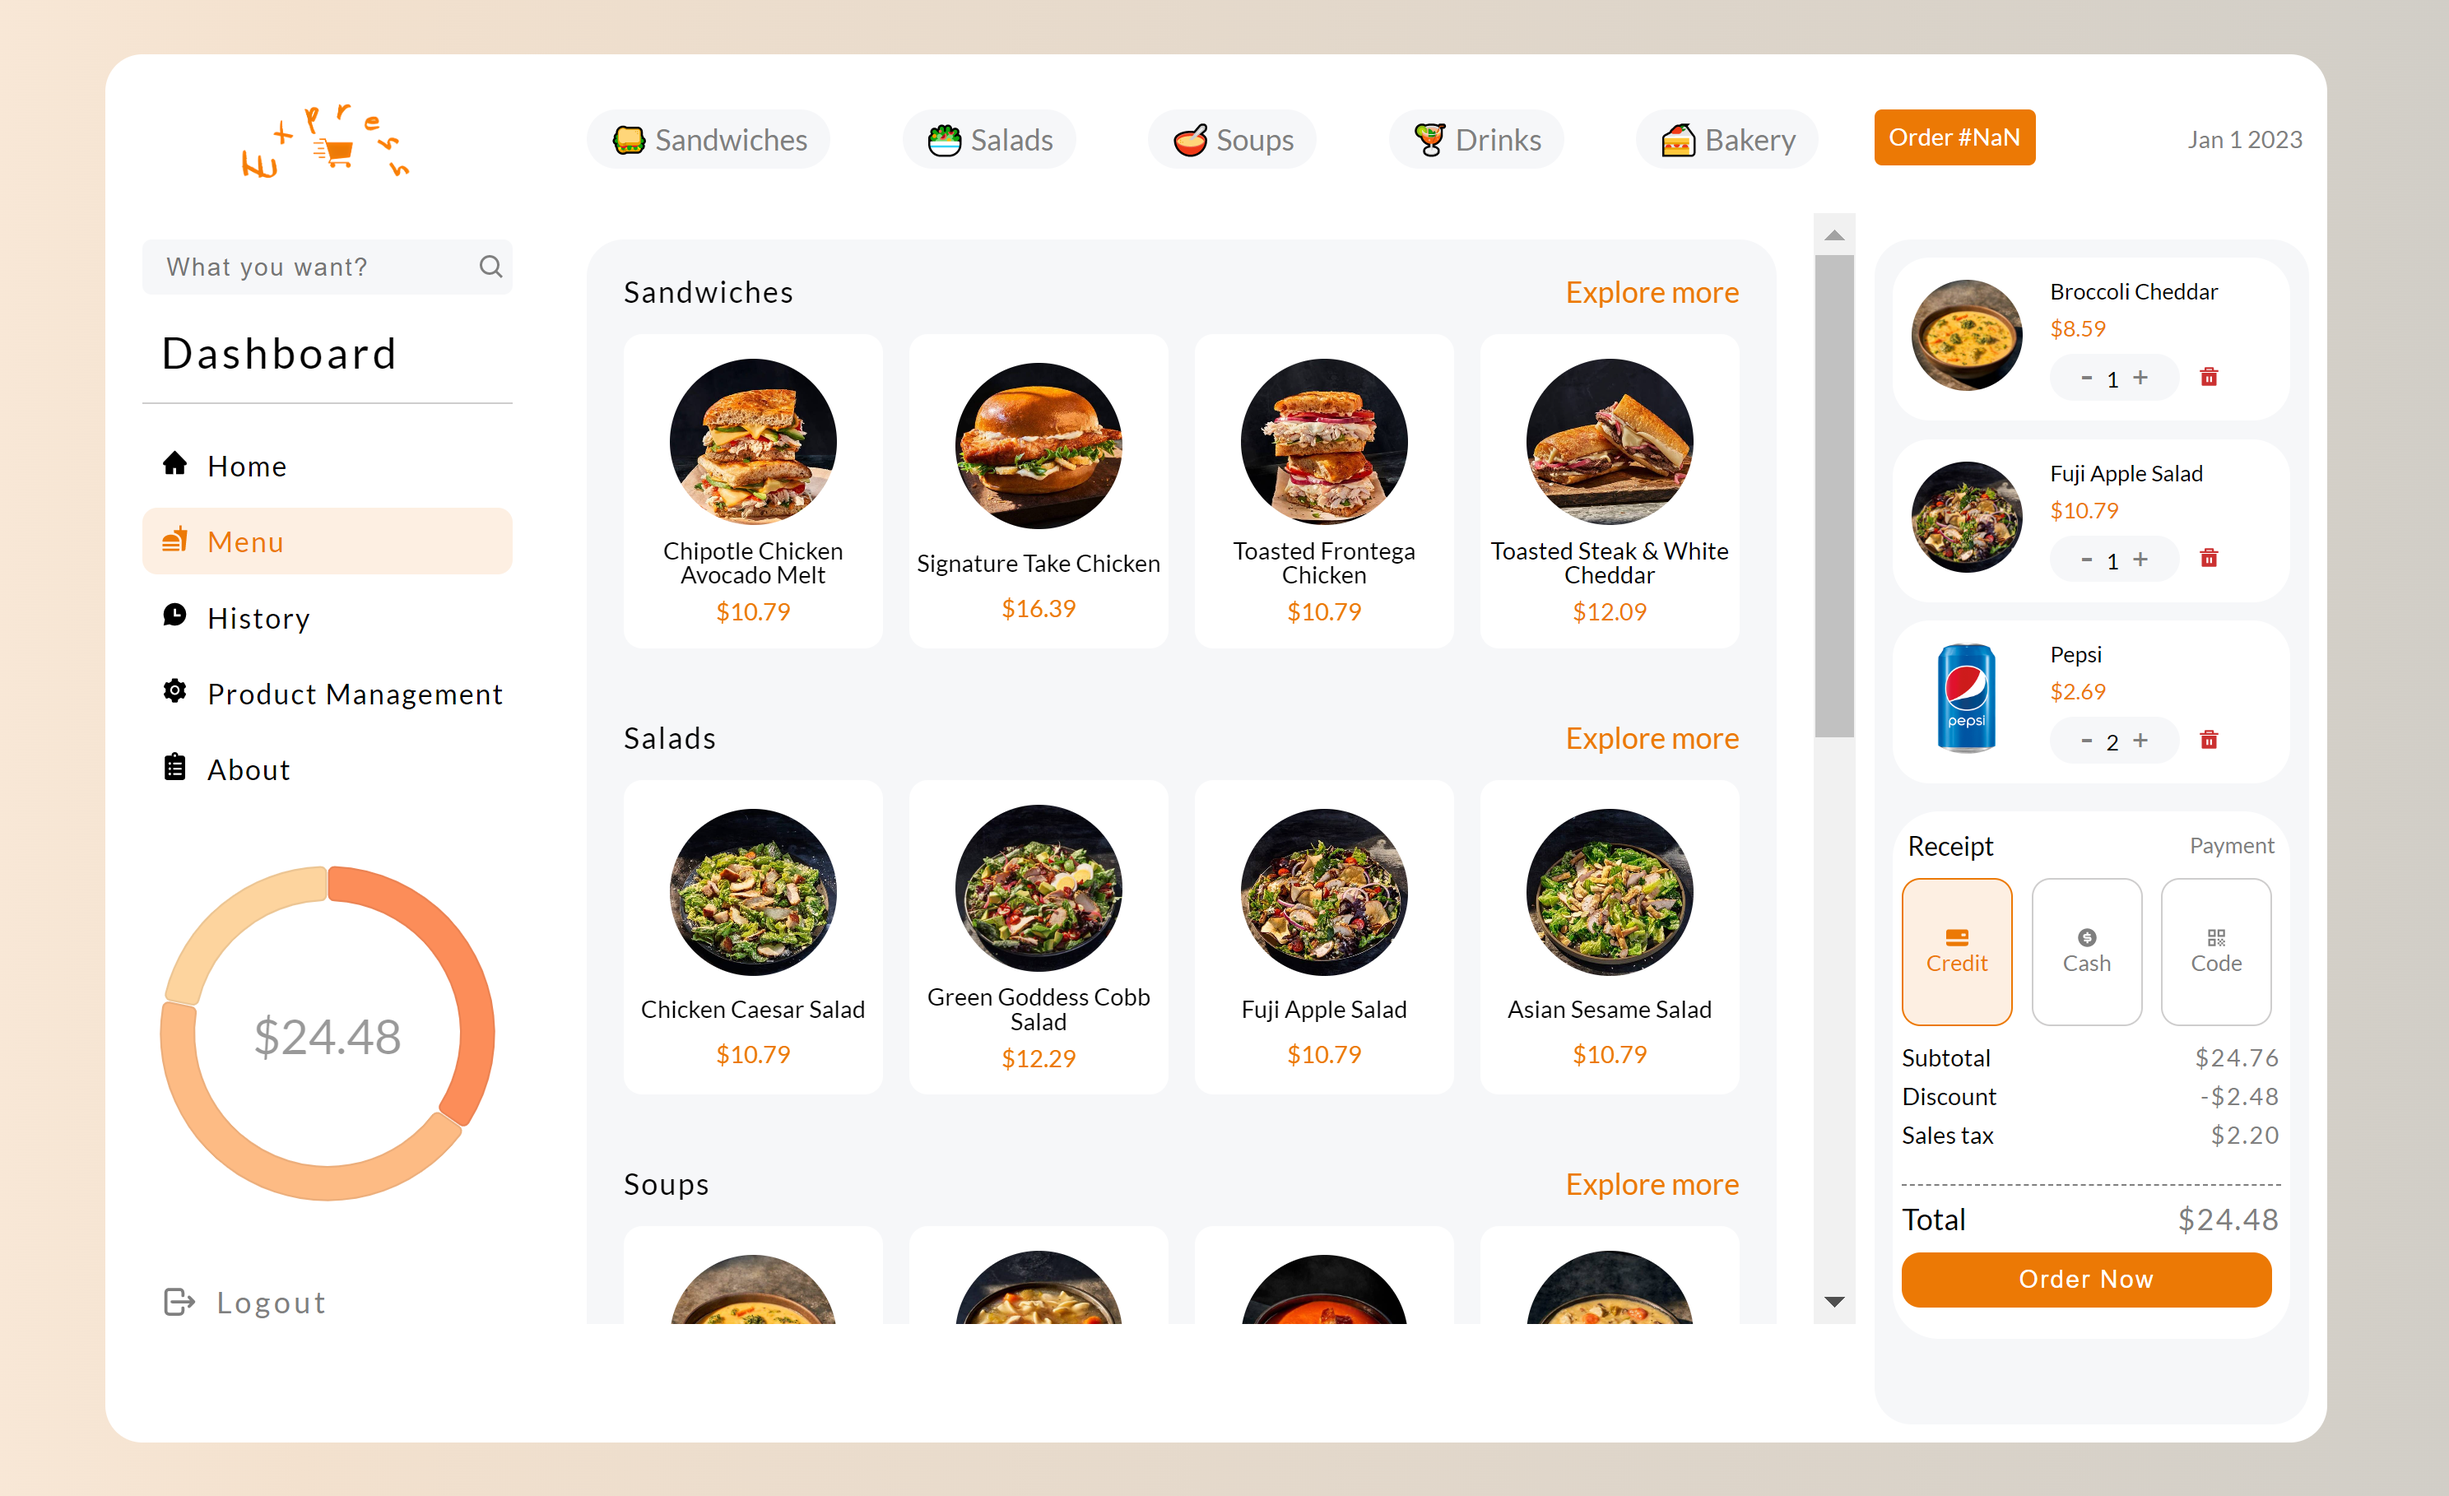
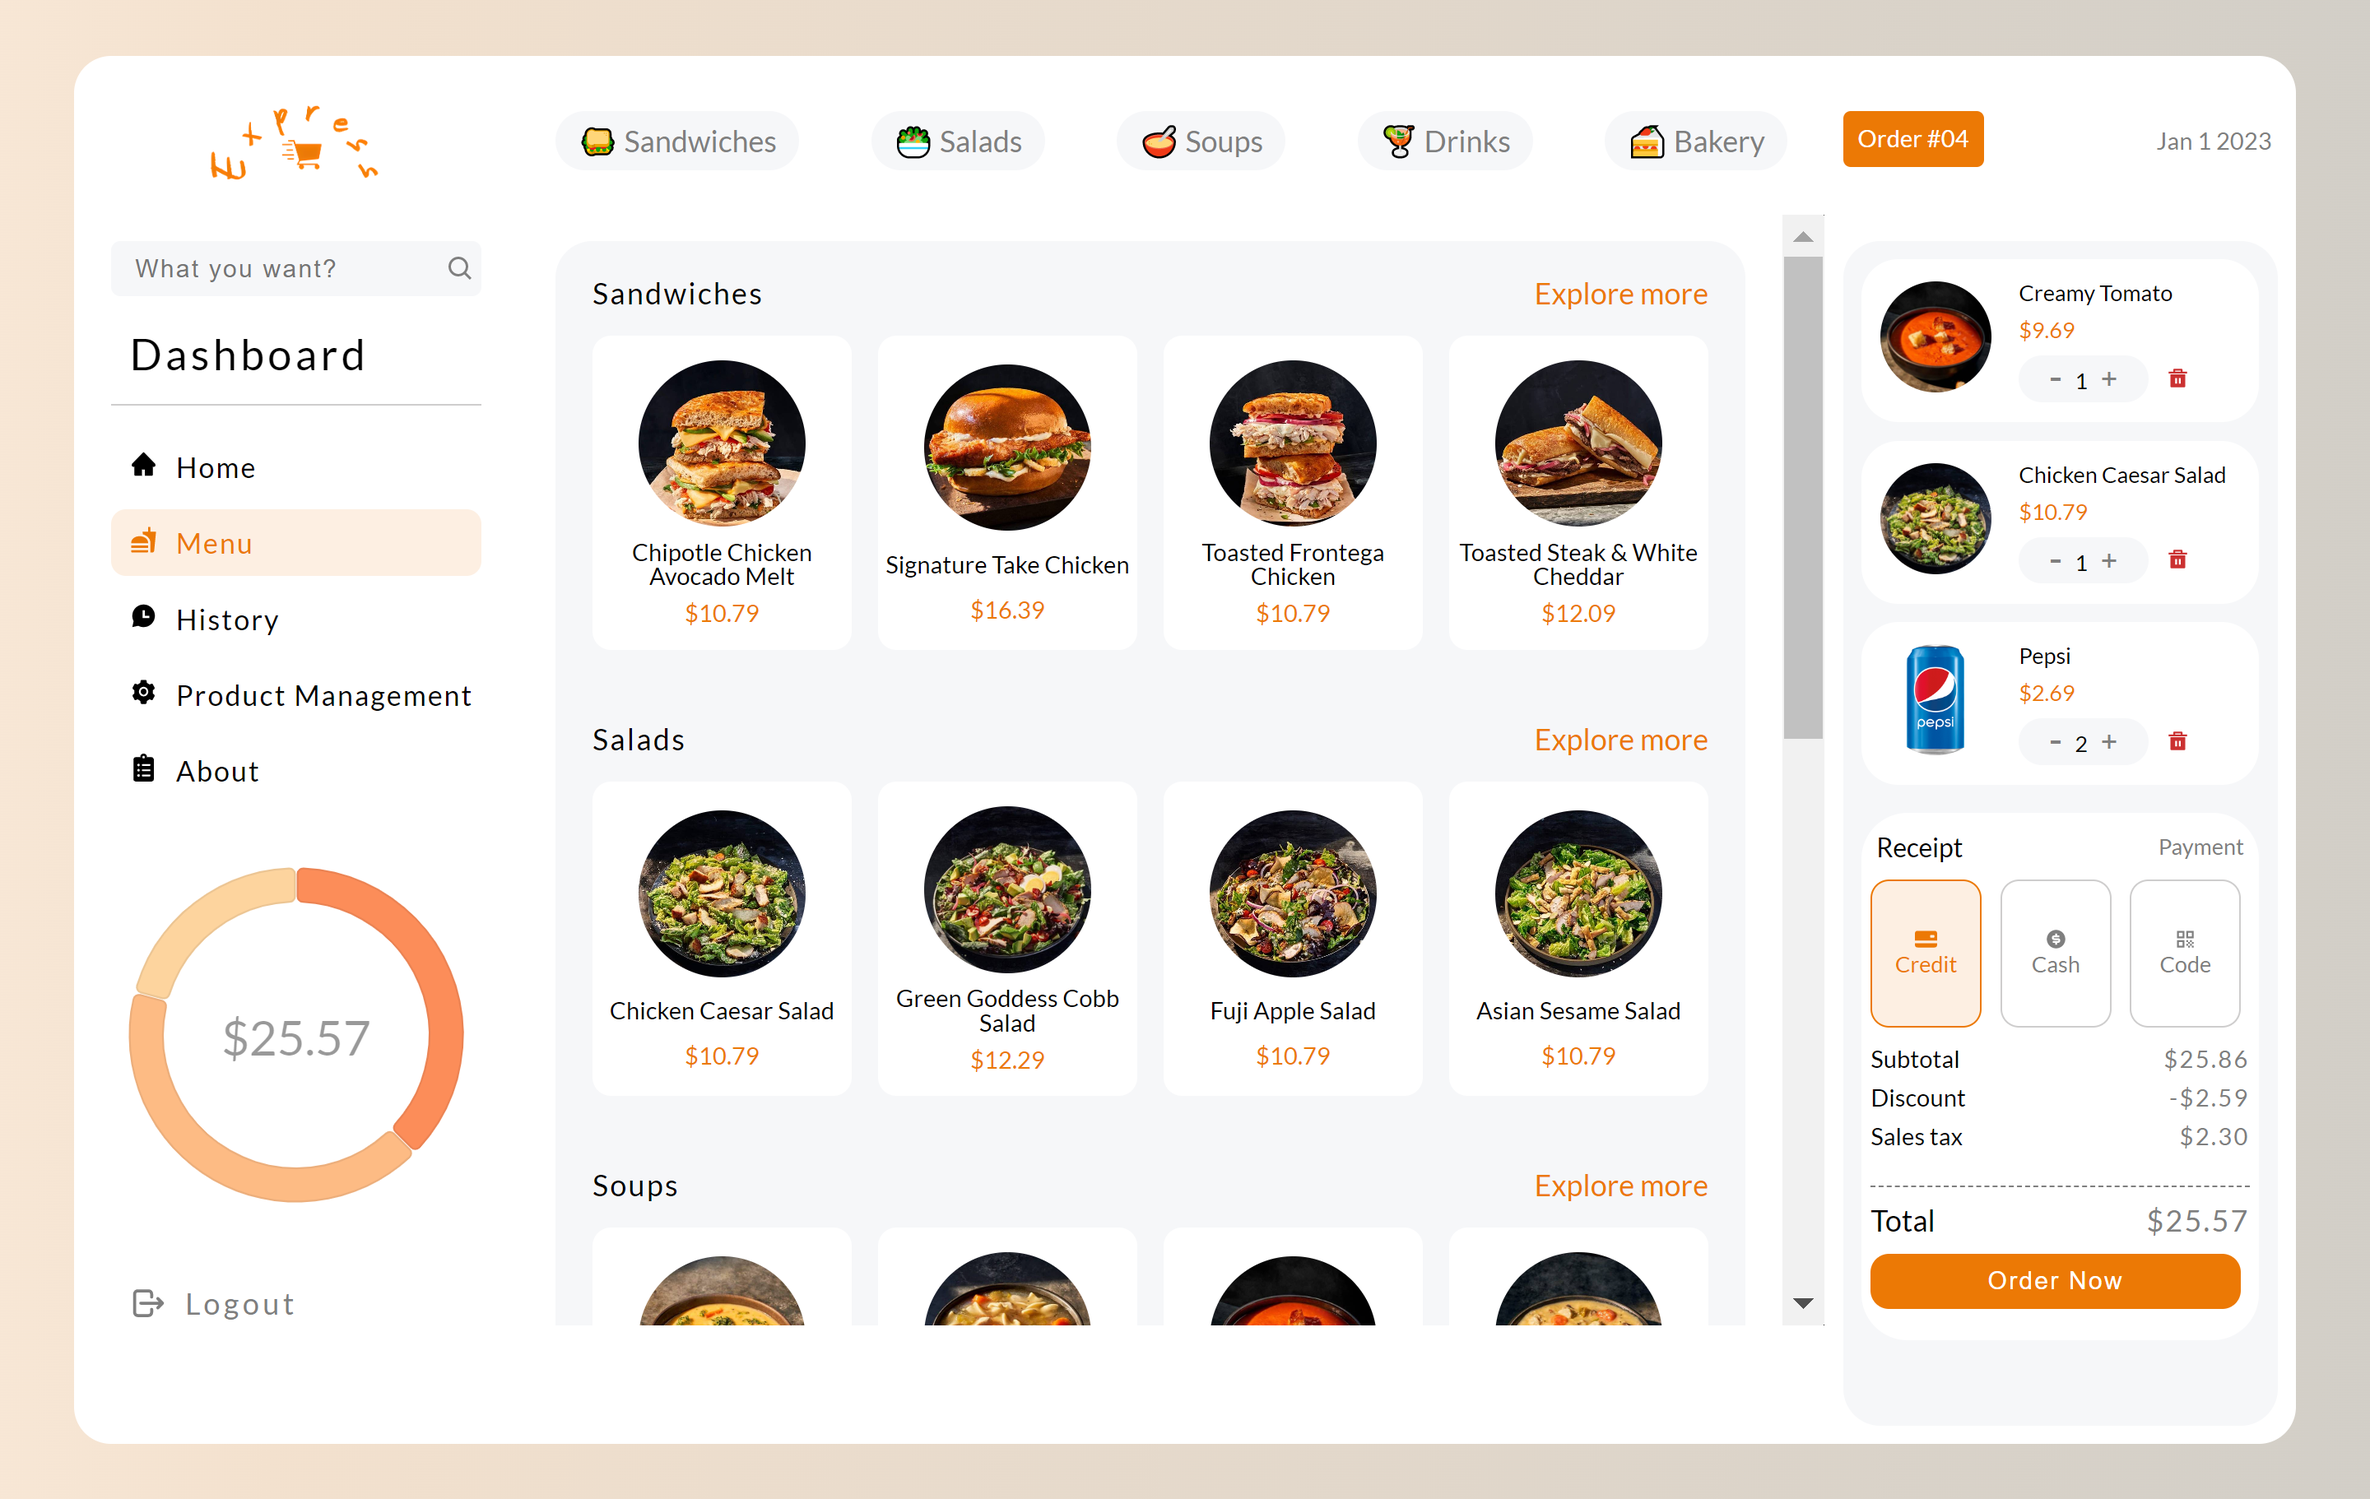
updated README screenshot and edited libraries list

diff --git a/README.md b/README.md
@@ -6,7 +6,7 @@
 
 ![Screenshot](./frontend/public/img/Express%20Menu%20Screenshot.png)
 
-## Technologies
+## Technologies & Libraries
 
 - MERN Stack:
   - MongoDB - NoSQL database management program which uses JSON-like documents
@@ -14,6 +14,7 @@
   - React - Open source frontend library
   - Node.js - Open source backend JavaScript runtime environment
 - Nivo - Data visualization library built on top of D3 & React
+- Panera Bread menu items including product names & images
 
 ## Code Snippet - PATCH method Express.js route for updating a product (with error handling)
 
